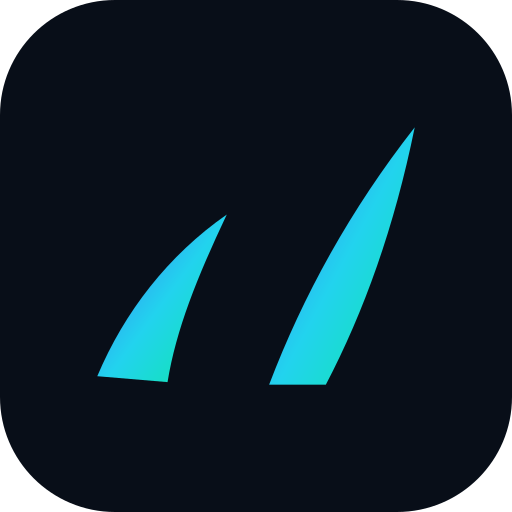
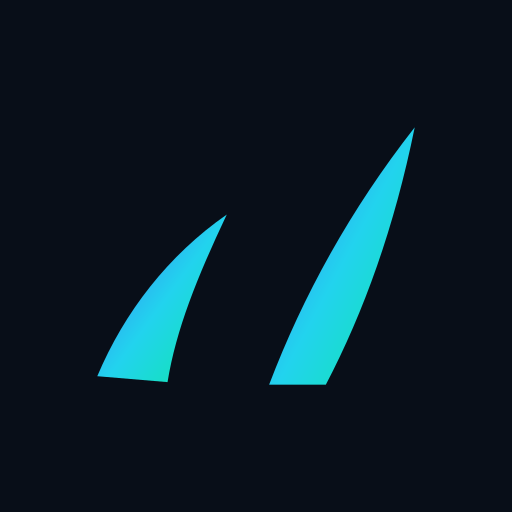
Corregir los iconos de aplicación y completar las versiones transparentes
Los iconos salían con esquinas redondeadas y píxeles transparentes en
ellas. Apple rechaza iconos con transparencia —el sistema aplica la
máscara por su cuenta— e Instagram recorta la foto de perfil en círculo,
con lo que un borde redondeado dejaba huecos. Ahora van a sangre y
opacos, y queda una variante redondeada aparte para usarla dentro de la
web, donde el borde no lo pone el sistema.

Se añaden las versiones transparentes que faltaban: negro y Pro en 1024,
y blanco y gradiente también en 512.

Claude-Session: https://claude.ai/code/session_01P6tf5BS2gRYPsMSzhryNam

diff --git a/brand&designs/README.md b/brand&designs/README.md
@@ -36,6 +36,8 @@ node "brand&designs/_generar.mjs"
 | Dónde | Archivo |
 |---|---|
 | Favicon del navegador | `app-icons/favicon-16.png`, `-32`, `-48` |
+| Logo sobre foto o color | `app-icons/icono-transparente-blanco-1024.png` |
+| Logo suelto sin fondo | `app-icons/icono-transparente-gradiente-1024.png` · `-negro-` · `-pro-` |
 | Icono en iOS | `app-icons/ios-1024.png` (App Store), `ios-180.png` (pantalla) |
 | Icono en Android | `app-icons/android-512.png`, `android-192.png` |
 | Perfil de Instagram y TikTok | `redes/perfil-400.png` |
@@ -60,6 +62,12 @@ piezas se juntan y se pierde el hueco en negativo, que es lo que la identifica.
 **Una tinta para prenda.** En ropa se usa siempre plano, blanco o negro. El
 gradiente es para pantalla: bordado no se puede reproducir y en serigrafía
 encarece mucho.
+
+**Iconos a sangre.** Los de , ,  y las
+fotos de perfil son cuadrados opacos y sin esquinas redondeadas **a propósito**:
+Apple rechaza iconos con transparencia porque el sistema aplica la máscara él
+mismo, e Instagram recorta en círculo, así que un borde redondeado dejaría
+huecos. Para poner el borde tú, usa .
 
 **No hacer:** rotar el símbolo, cambiar la inclinación relativa de las dos
 piezas, separarlas más, aplicar sombras o contornos, ni recolorearlo fuera de la
